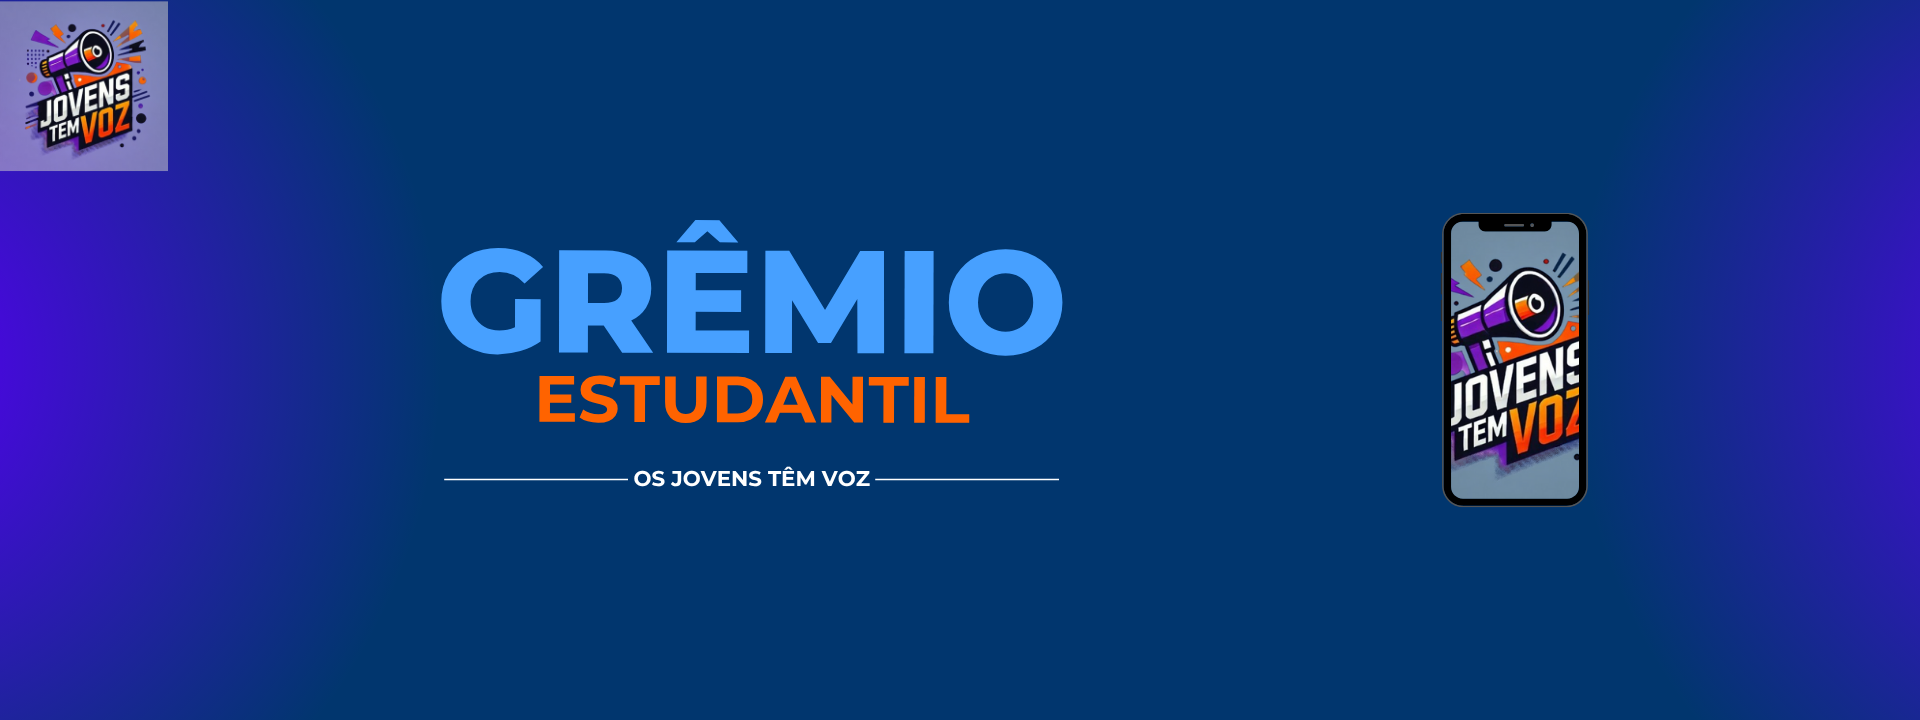
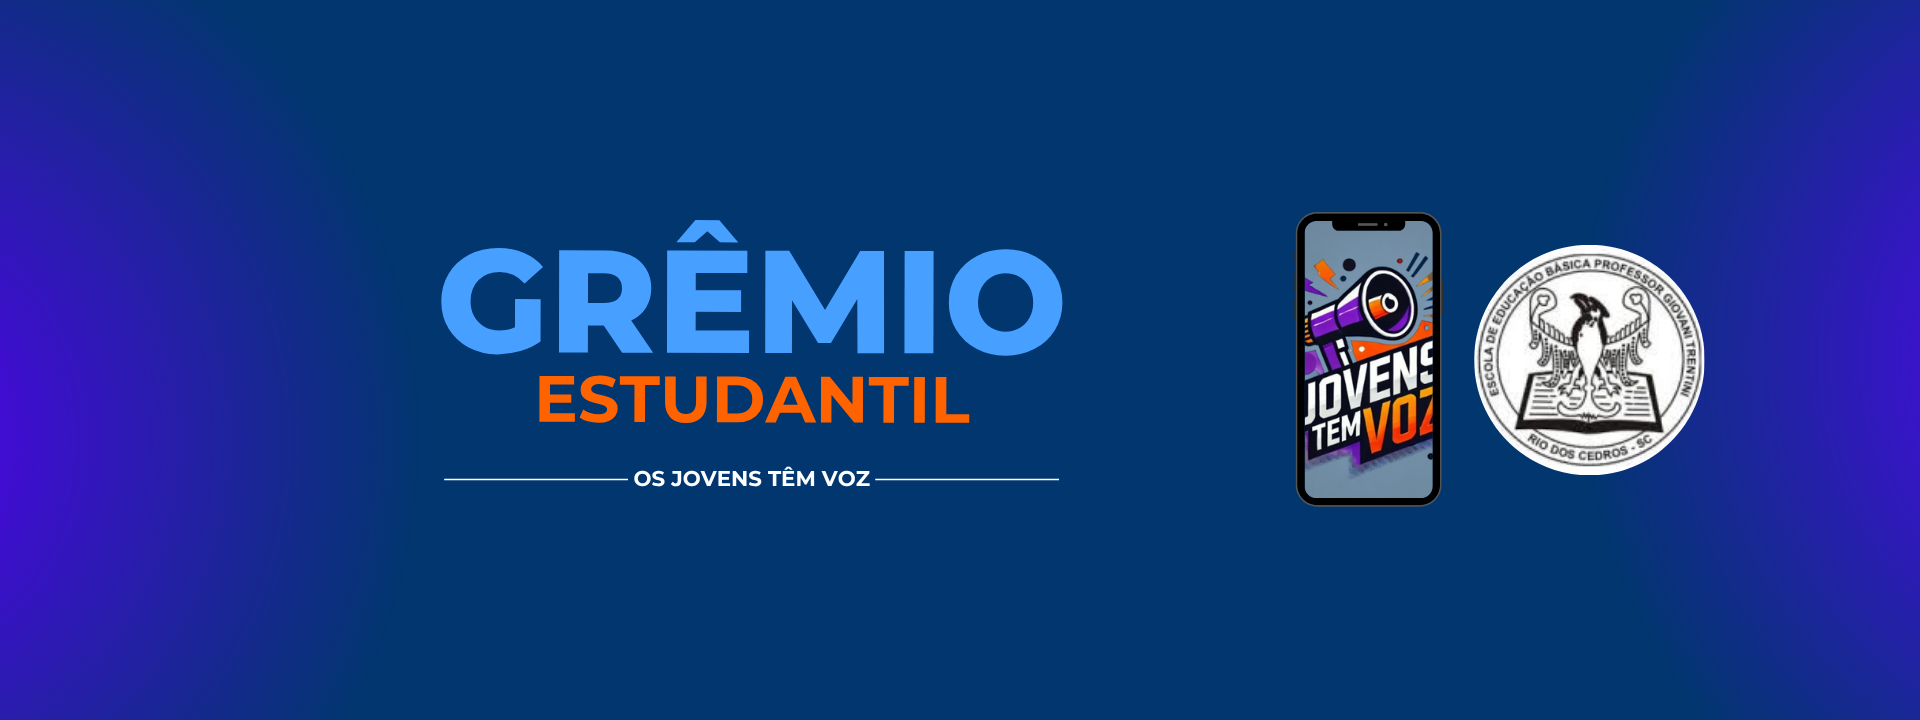
Atualizando sobre.html e sugestao.html, adicionando radio.html

Changed region(s): [[0.6562, 0.275, 0.9062, 0.7028], [0.0, 0.0, 0.0938, 0.2444]]

diff --git a/index.css b/index.css
@@ -1,51 +1,150 @@
-/* Fonte externa (coloque isso no HTML, não no CSS) */
-/* <link href="https://fonts.googleapis.com/css2?family=Poppins:wght@500&display=swap" rel="stylesheet"> */
+/* Reset e Estilos Globais */
+* {
+    margin: 0;
+    padding: 0;
+    box-sizing: border-box;
+}
 
 body {
-	font-family: 'Poppins', sans-serif;
-	margin: 0;
-	padding: 0;
+    font-family: 'Poppins', sans-serif;
+    line-height: 1.6;
+    color: #333;
+    background-color: #f9f9f9;
 }
 
-ul {
-	list-style: none;
-	padding: 0;
-	margin: 20px 0;
-	display: flex;
-	justify-content: center;
-	gap: 30px;
-	background-color: #003366;
-	padding: 15px 0;
+/* Header e Banner */
+header {
+    width: 100%;
 }
 
-ul li a {
-	text-decoration: none;
-	color: white;
-	font-size: 18px;
-	position: relative;
-	transition: color 0.3s;
+.banner {
+    width: 100%;
+    height: auto;
+    max-height: 250px;
+    object-fit: cover;
+    display: block;
 }
 
-ul li a::after {
-	content: '';
-	position: absolute;
-	width: 0%;
-	height: 2px;
-	bottom: -4px;
-	left: 0;
-	background-color: orange;
-	transition: 0.3s;
+/* Menu de Navegação */
+.menu {
+    list-style: none;
+    display: flex;
+    justify-content: center;
+    gap: 30px;
+    background-color: #003366;
+    padding: 15px 0;
+    margin: 0;
 }
 
-ul li a:hover {
-	color: #FFA500;
+.menu li a {
+    text-decoration: none;
+    color: white;
+    font-size: 18px;
+    position: relative;
+    transition: color 0.3s;
+    padding: 5px 10px;
 }
 
-ul li a:hover::after {
-	width: 100%;
+.menu li a::after {
+    content: '';
+    position: absolute;
+    width: 0%;
+    height: 2px;
+    bottom: -4px;
+    left: 0;
+    background-color: orange;
+    transition: 0.3s;
 }
 
-h1, hr {
-	margin: 0;
-	padding: 0;
+.menu li a:hover {
+    color: #FFA500;
+}
+
+.menu li a:hover::after {
+    width: 100%;
+}
+
+/* Conteúdo Principal */
+.container {
+    max-width: 1200px;
+    margin: 30px auto;
+    padding: 0 20px;
+}
+
+.conteudo-principal {
+    display: flex;
+    flex-wrap: wrap;
+    gap: 40px;
+    align-items: flex-start;
+    margin-bottom: 40px;
+}
+
+.texto {
+    flex: 1;
+    min-width: 300px;
+}
+
+.texto h1 {
+    font-size: 2rem;
+    margin-bottom: 20px;
+    color: #003366;
+}
+
+.texto p {
+    margin-bottom: 20px;
+    text-align: justify;
+}
+
+.imagem-lateral {
+    flex: 0 0 350px;
+}
+
+.imagem-lateral img {
+    width: 100%;
+    height: auto;
+    border-radius: 8px;
+    box-shadow: 0 4px 8px rgba(0,0,0,0.1);
+}
+
+/* Rodapé */
+footer {
+    background-color: #003366;
+    color: white;
+    padding: 15px 0;
+    text-align: center;
+}
+
+.info-rodape {
+    display: flex;
+    justify-content: center;
+    gap: 20px;
+    flex-wrap: wrap;
+}
+
+.info-rodape span {
+    font-size: 0.9rem;
+}
+
+/* Responsividade */
+@media (max-width: 768px) {
+    .menu {
+        flex-direction: column;
+        align-items: center;
+        gap: 10px;
+    }
+    
+    .conteudo-principal {
+        flex-direction: column;
+    }
+    
+    .imagem-lateral {
+        flex: 1;
+        width: 100%;
+        margin-top: 20px;
+    }
+    
+    .info-rodape {
+        flex-direction: column;
+        gap: 5px;
+    }
 }

diff --git a/index.html b/index.html
@@ -1,19 +1,41 @@
 <!doctype html>
 <html>
-	<head>
-		<title>Blog do Grêmio</title>
-		<meta charset="utf-8">
-		<link href="https://fonts.googleapis.com/css2?family=Poppins:wght@500&display=swap" rel="stylesheet">
-		<link rel="stylesheet" href="index.css">
-	</head>
-	<body>
-		<img src="imagens/Banner.png"     style="width:100%; height:auto; max-height:250px; object-fit:cover; display:flex;">
-		<hr>
-		<ul type="circle">
-			<li><a href="index.html">Home</a></li>
-			<li><a href="sobre.html">Quem somos</a></li>
-			<li><a href="sugestao.html">Sugestões</a></li>
-			<li><a href="radio">Rádio</a></li>
-		</ul>
-	</body>
+<head>
+    <title>Blog do Grêmio</title>
+    <meta charset="utf-8">
+    <meta name="viewport" content="width=device-width, initial-scale=1.0">
+    <link href="https://fonts.googleapis.com/css2?family=Poppins:wght@500&display=swap" rel="stylesheet">
+    <link rel="stylesheet" href="index.css">
+</head>
+<body>
+    <header>
+        <img src="imagens/Banner.png" alt="Banner do Blog" class="banner">
+        <nav>
+            <ul class="menu">
+                <li><a href="index.html">Home</a></li>
+                <li><a href="sobre.html">Quem somos</a></li>
+                <li><a href="sugestao.html">Sugestões</a></li>
+                <li><a href="radio.html">Rádio</a></li>
+            </ul>
+        </nav>
+    </header>
+
+    <main class="container">
+        <article class="conteudo-principal">
+            <div class="texto">
+                <h1>Julho 2025</h1>
+                <p>"But I must explain to you how all this mistaken idea of denouncing pleasure and praising pain was born and I will give you a complete account of the system, and expound the actual teachings of the great explorer of the truth, the master-builder of human happiness. No one rejects, dislikes, or avoids pleasure itself, because it is pleasure, but because those who do not know how to pursue pleasure rationally encounter consequences that are extremely painful. Nor again is there anyone who loves or pursues or desires to obtain pain of itself, because it is pain, but because occasionally circumstances occur in which toil and pain can procure him some great pleasure. To take a trivial example, which of us ever undertakes laborious physical exercise, except to obtain some advantage from it? But who has any right to find fault with a man who chooses to enjoy a pleasure that has no annoying consequences, or one who avoids a pain that produces no resultant pleasure?"</p>
+            </div>
+            <div class="imagem-lateral">
+                <img src="imagens/logo.jpg" alt="Logo do Grêmio">
+            </div>
+        </article>
+    </main>
+
+    <footer>
+        <div class="info-rodape">
+            <span>Direitos Reservados</span>
+        </div>
+    </footer>
+</body>
 </html>

diff --git a/sugestao.html b/sugestao.html
@@ -1,16 +1,51 @@
-<!DOCTYPE html>
+<!doctype html>
 <html>
-	<head>
-		<meta charset="utf-8">
-		<title>Sugestões</title>
-	</head>
-	<body>
-		<h1>Grêmio Os Jovens Têm Voz</h1>
-		<hr>
-		<ul type="circle">
-			<li><a href="index.html"> Home</a></li>
-			<li><a href="sobre.html">Quem somos</a></li>
-			<li><a href="sugestao.html">Sugestões</a></li>
-		</ul>
-	</body>
+<head>
+    <title>Blog do Grêmio - [NOME DA PÁGINA]</title>
+    <meta charset="utf-8">
+    <meta name="viewport" content="width=device-width, initial-scale=1.0">
+    <link href="https://fonts.googleapis.com/css2?family=Poppins:wght@500&display=swap" rel="stylesheet">
+    <link rel="stylesheet" href="index.css">
+</head>
+<body>
+    <header>
+        <img src="imagens/Banner.png" alt="Banner do Blog" class="banner">
+        <nav>
+            <ul class="menu">
+                <li><a href="index.html">Home</a></li>
+                <li><a href="sobre.html">Quem somos</a></li>
+                <li><a href="sugestao.html">Sugestões</a></li>
+                <li><a href="radio.html">Rádio</a></li>
+            </ul>
+        </nav>
+    </header>
+
+    <main class="container">
+        <!-- CONTEÚDO ÚNICO DE CADA PÁGINA (ALTERE AQUI) -->
+        <article class="pagina-padrao">
+            <h1>Título da Página</h1>
+            <div class="conteudo-flex">
+                <div class="texto">
+                    <p>Seu conteúdo textual aqui...</p>
+                </div>
+                <div class="imagem-lateral">
+                    <img src="imagens/[imagem-relacionada].jpg" alt="Descrição da imagem">
+                </div>
+            </div>
+        </article>
+    </main>
+
+    <footer>
+        <div class="info-rodape">
+            <span>Pesquisar</span>
+            <span>POR</span>
+            <span id="hora-atual">21:16</span>
+            <span>PIB</span>
+            <span id="data-atual">21/07/2025</span>
+        </div>
+    </footer>
+
+    <!-- Script para data/hora dinâmica (opcional) -->
+    <script src="scripts.js"></script>
+</body>
 </html>
